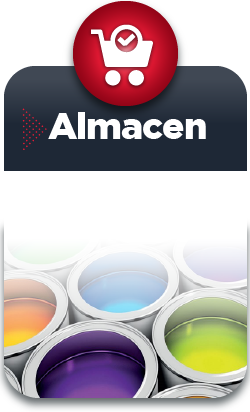
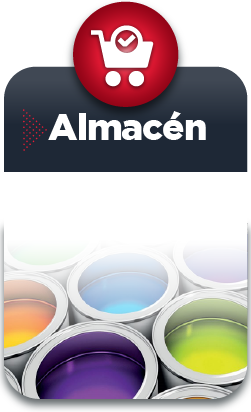
actualizacion de imagenes

diff --git a/src/app/producto-ymaquinaria/productos/productos.component.html b/src/app/producto-ymaquinaria/productos/productos.component.html
@@ -578,19 +578,53 @@
         <div class="modal-card-body">
             <div class="columns">
                 <div class="column">
-
+                    <figure class="image is-4by5">
+                        <img src="{{ImageProducto}}">
+                    </figure>
                 </div>
-                <div class="column">
+                <div class="column is-5">
                     <table class="table">
                         <thead>
                             <th>
                                 Especificación del Producto
                             </th>
                         </thead>
-                        <tbody>
+                        <tbody><tr>
                             <td>
            E-{{OneProduct.cliente.codigo}}-{{OneProduct.codigo}}-{{OneProduct.version}}-{{OneProduct.edicion}}
-                            </td>
+                            </td></tr>
+                            <tr>
+                                <td>
+                                    <br>
+                                    <br>
+                                    <div class="file is-small has-name is-primary">
+                                        <label class="file-label">
+                                          <input class="file-input" type="file" name="resume"
+                                          (change)="CambiarImagen($event)">
+                                          <span class="file-cta">
+                                            <span class="file-icon">
+                                              <i class="fas fa-upload"></i>
+                                            </span>
+                                            <span class="file-label">
+                                              Seleccionar Imagen
+                                            </span>
+                                          </span>
+                                          <span class="file-name">
+                                            Sin archivo
+                                          </span>
+                                        </label>
+                                      </div>
+                                    <!--
+                                        
+                                    -->
+                                    <button class="button is-primary mt-5 is-small"
+                                    [disabled]="!ImgSubir"
+                                    [ngClass]="{'is-loading': cargando}"
+                                    (click)='subirImagen()'>
+                                    Cambiar imagen
+                                    </button>
+                                </td>
+                            </tr>
                         </tbody>
                     </table>
                 </div>
@@ -698,7 +732,7 @@
                 </tbody>
             </table>
             <div class="separador">
-                Pre impresion
+                Pre impresión
             </div>
             <br>
 

diff --git a/src/app/producto-ymaquinaria/productos/productos.component.ts b/src/app/producto-ymaquinaria/productos/productos.component.ts
@@ -3,6 +3,8 @@ import { RestApiService } from 'src/app/services/rest-api.service';
 import { FormBuilder, FormGroup, Validators } from '@angular/forms';
 import Swal from 'sweetalert2';
 import { Subscriber, timer } from 'rxjs';
+import { SubirArchivosService } from 'src/app/services/subir-archivos.service';
+import { environment } from 'src/environments/environment';
 
 @Component({
   selector: 'app-productos',
@@ -11,12 +13,16 @@ import { Subscriber, timer } from 'rxjs';
 })
 export class ProductosComponent implements OnInit {
 
+  baseUrl = environment.api
+
   public NUEVO_CLIENTE:boolean = false;
   public CLIENTES;
   public MATERIALES;
   public MATERIALES_NECESARIOS = [];
   public NUEVO_PRODUCTO:boolean = false;
   public GRUPOS;
+
+  public ImageProducto;
 
   public EJEMPLARES = [];
   public POST = [];
@@ -48,9 +54,12 @@ export class ProductosComponent implements OnInit {
   siete:boolean = true;
   ocho:boolean = true;
 
+  public ImgSubir:File;
+
 
   almacenes = [];
   public new_almacen = ''
+  public cargando = false;
 
   public VER_PRODUCTO:boolean = false;
   OneProduct:any = {producto:'',
@@ -80,6 +89,7 @@ export class ProductosComponent implements OnInit {
   })
 
   constructor(private api:RestApiService,
+              private subirArchivo:SubirArchivosService,
               private fb:FormBuilder) { 
                 this.usuario = api.usuario
               }
@@ -109,6 +119,26 @@ export class ProductosComponent implements OnInit {
         case 8: return "I";
     }
 
+  }
+
+  CambiarImagen( event:any ){
+    this.ImgSubir = (event.target).files[0];
+    document.getElementsByClassName('file-name')[0].innerHTML = this.ImgSubir.name;
+  }
+
+  subirImagen(){
+    this.cargando = true;
+    this.subirArchivo.actualizarFoto(this.ImgSubir, 'producto', this.OneProduct._id )
+    .then(img => {
+      if(img){
+        this.usuario.img = img;
+        document.getElementsByClassName('file-name')[0].innerHTML = 'Sin archivo...';
+        this.ImgSubir = null;
+      }
+      this.verProducto(this.OneProduct._id)
+      this.verProducto(this.OneProduct._id)
+      this.cargando = false;
+      });
   }
 
   producto_seleccionado(e){
@@ -676,7 +706,13 @@ add_materia(producto, cantidad){
     this.api.getOneById(producto)
       .subscribe((resp:any)=>{
         this.OneProduct = resp.producto
-        console.log('AQUIIIIIIIIIIIIII', this.OneProduct)
+
+        if( this.OneProduct.img) {
+          this.ImageProducto =  `${this.baseUrl}/imagen/producto/${this.OneProduct.img}`;
+        }else{
+          this.ImageProducto = `../../../assets/no-picture.png`;
+        }
+
         this.ver_Modal_Producto()
       })
   }

diff --git a/src/app/orden/orden.component.ts b/src/app/orden/orden.component.ts
@@ -433,8 +433,8 @@ export class OrdenComponent implements OnInit {
 
                               new Cell(new Table([
                                 [
-                                  new Cell(new Txt('% DEMASIA').end).fillColor('#dedede').alignment('center').fontSize(9).end,
-                                  new Cell(new Txt('HOJAS DE DEMASIA:').end).fillColor('#dedede').alignment('center').fontSize(9).end,
+                                  new Cell(new Txt('% DEMASÍA').end).fillColor('#dedede').alignment('center').fontSize(9).end,
+                                  new Cell(new Txt('HOJAS DE DEMASÍA:').end).fillColor('#dedede').alignment('center').fontSize(9).end,
                                 ],
                                 [
                                   new Cell(new Txt(PRODUCTO.demasia).end).fontSize(10).alignment('center').end,
@@ -455,7 +455,7 @@ export class OrdenComponent implements OnInit {
                               new Cell(new Table([
                                 [
                                   new Cell(new Txt('BARNIZ').end).alignment('center').fillColor('#dedede').alignment('center').fontSize(9).end,
-                                  new Cell(new Txt('ESTANDAR DE COLOR:').alignment('center').end).fillColor('#dedede').alignment('center').fontSize(7).end,
+                                  new Cell(new Txt('ESTÁNDAR DE COLOR:').alignment('center').end).fillColor('#dedede').alignment('center').fontSize(7).end,
                                 ],
                                 [
                                   new Cell(new Txt(`${barniz[0].producto.nombre} (${barniz[0].producto.marca} - ${cantidad_barniz}${barniz[0].producto.unidad})`).end).fontSize(9).end,

diff --git a/src/app/producto-ymaquinaria/maquinaria/maquinaria.component.html b/src/app/producto-ymaquinaria/maquinaria/maquinaria.component.html
@@ -2,13 +2,13 @@
     <div class="card">
         <div class="card-content">
             <div class="titulo">Maquinaria</div>
-            <button class="button is-primary" (click)='Modal_Maquina()' *ngIf='usuario.Maquinaria == 2'>Nueva Maquina</button>
+            <button class="button is-primary" (click)='Modal_Maquina()' *ngIf='usuario.Maquinaria == 2'>Nueva Máquina</button>
             <hr>
             <table class="table is-fullwidth">
                 <thead>
                     <tr>
-                        <th>Nombre Maquina</th>
-                        <th>Función de Maquina</th>
+                        <th>Nombre Máquina</th>
+                        <th>Función de Máquina</th>
                         <th>Cantidad de Colores</th>
                         <th>Trabajos por Hora</th>
                         <th *ngIf='usuario.Maquinaria == 2'>Modificar Máquina</th>
@@ -127,7 +127,7 @@
             autocomplete="off"
             [formGroup]="maquinaForm"
             (ngSubmit)="nuevaMaquina()">
-                <div class="subtitulo">Registrar Maquina</div>
+                <div class="subtitulo">Registrar Máquina</div>
                 <hr>
                 <div class="field">
                     <label class="label">Nombre</label>
@@ -157,7 +157,7 @@
                     </div>
                 </div>
                 
-                <button class="button is-primary">Registrar Nueva Maquina</button>
+                <button class="button is-primary">Registrar Nueva Máquina</button>
             </form>
         </div>
     </div>

diff --git a/src/app/orden/orden.component.html b/src/app/orden/orden.component.html
@@ -232,11 +232,11 @@
                                             <div class="column">
                                                 <table class="table is-bordered is-fullwidth">
                                                     <tr>
-                                                        <th>% DEMASIA</th>
+                                                        <th>% DEMASÍA</th>
                                                         <td>{{PRODUCTO.demasia}}</td>
                                                     </tr>
                                                     <tr>
-                                                        <th>HOJAS DE DEMASIA</th>
+                                                        <th>HOJAS DE DEMASÍA</th>
                                                         <td>{{hojas_demasia}}</td>
                                                     </tr>
                                                     <tr>
@@ -280,7 +280,7 @@
                                                 </ng-container>
                                             </tr>
                                             <tr>
-                                                <th>ESTANDAR DE COLORES:</th>
+                                                <th>ESTÁNDAR DE COLORES:</th>
                                                 <td *ngIf="PRODUCTO.e_c === true">Si</td>
                                                 <td *ngIf="PRODUCTO.e_c != true">No</td>
                                             <tr>

diff --git a/src/app/services/subir-archivos.service.ts b/src/app/services/subir-archivos.service.ts
@@ -1,0 +1,52 @@
+import { Injectable } from '@angular/core';
+import { environment } from 'src/environments/environment';
+import Swal from 'sweetalert2';
+
+@Injectable({
+  providedIn: 'root'
+})
+export class SubirArchivosService {
+  api_url = environment.api;
+
+  constructor() { }
+
+
+  async actualizarFoto(
+    archivo:File,
+    tipo:'usuarios'|'errors'|'producto',
+    id:string
+  ) {
+    try{
+      
+      const url = `${this.api_url}/upload/${tipo}/${id}`;
+      const formData = new FormData(); 
+      formData.append('archivo', archivo);
+
+      const resp = await fetch( url ,{
+        method:'PUT',
+        headers: {
+          'Authorization': localStorage.getItem('token') || ''
+        },
+        body: formData
+      });
+
+      const data = await resp.json();
+      if (data.ok){
+        Swal.fire('Excelente!', 'Se ha actualizado la imagen del producto', 'success');
+        return data.img
+      }else{
+        Swal.fire('Error', data.err.message, 'error');
+        
+        return false;
+      }
+      return 'path image'
+
+
+    } catch(error){
+      console.log(error)
+      return false;
+    }
+
+  }
+
+}

diff --git a/src/app/ordenes/gestion/gestion.component.html b/src/app/ordenes/gestion/gestion.component.html
@@ -23,7 +23,7 @@
                         <tr>
                             <th>Orden</th>
                             <th>Producto</th>
-                            <th>Maquina</th>
+                            <th>Máquina</th>
                             <th>Cant. Hojas</th>
                             <th>Cant. Productos</th>
                             <th>Fecha Estimada</th>
@@ -64,7 +64,7 @@
                     <thead>
                         <tr>
                             <th>Fecha</th>
-                            <th>Maquina</th>
+                            <th>Máquina</th>
                             <th>Cant. de Hojas</th>
                             <th>Cant. de Productos</th>
                             <th>Restante</th>

diff --git a/src/app/index/main/main.component.html b/src/app/index/main/main.component.html
@@ -41,5 +41,8 @@
         <div class="column" *ngIf="usuario.Planificacion === 0">
             <img src="../../../assets/BANNER-PLANIFICACION-BN.png" alt="">
         </div>
+        <div class="column">
+            <img src="../../../assets/BANNER-ESTADISTICAS-BN.png" alt="">
+        </div>
     </div>
 </div>

diff --git a/src/environments/environment.ts b/src/environments/environment.ts
@@ -6,7 +6,7 @@ export const environment = {
   production: false,
   //  api: 'http://127.0.0.1:8080/api'
   
-   api: 'http://192.168.0.23:8080/api'
+   api: 'http://127.0.0.1:8080/api'
 };
 
 /*

diff --git a/src/environments/environment.prod.ts b/src/environments/environment.prod.ts
@@ -2,5 +2,5 @@ export const environment = {
   production: true,
     // api: 'http://127.0.0.1:8080/api'
   
-    api: 'http://192.168.0.23:8080/api'
+    api: 'http://127.0.0.1:8080/api'
 };

diff --git a/src/app/producto-ymaquinaria/productos/productos.component.css b/src/app/producto-ymaquinaria/productos/productos.component.css
@@ -39,3 +39,8 @@
     cursor: pointer;
     color: gray;
 }
+
+img{
+    width: 500px;
+    height: 200px;
+}
